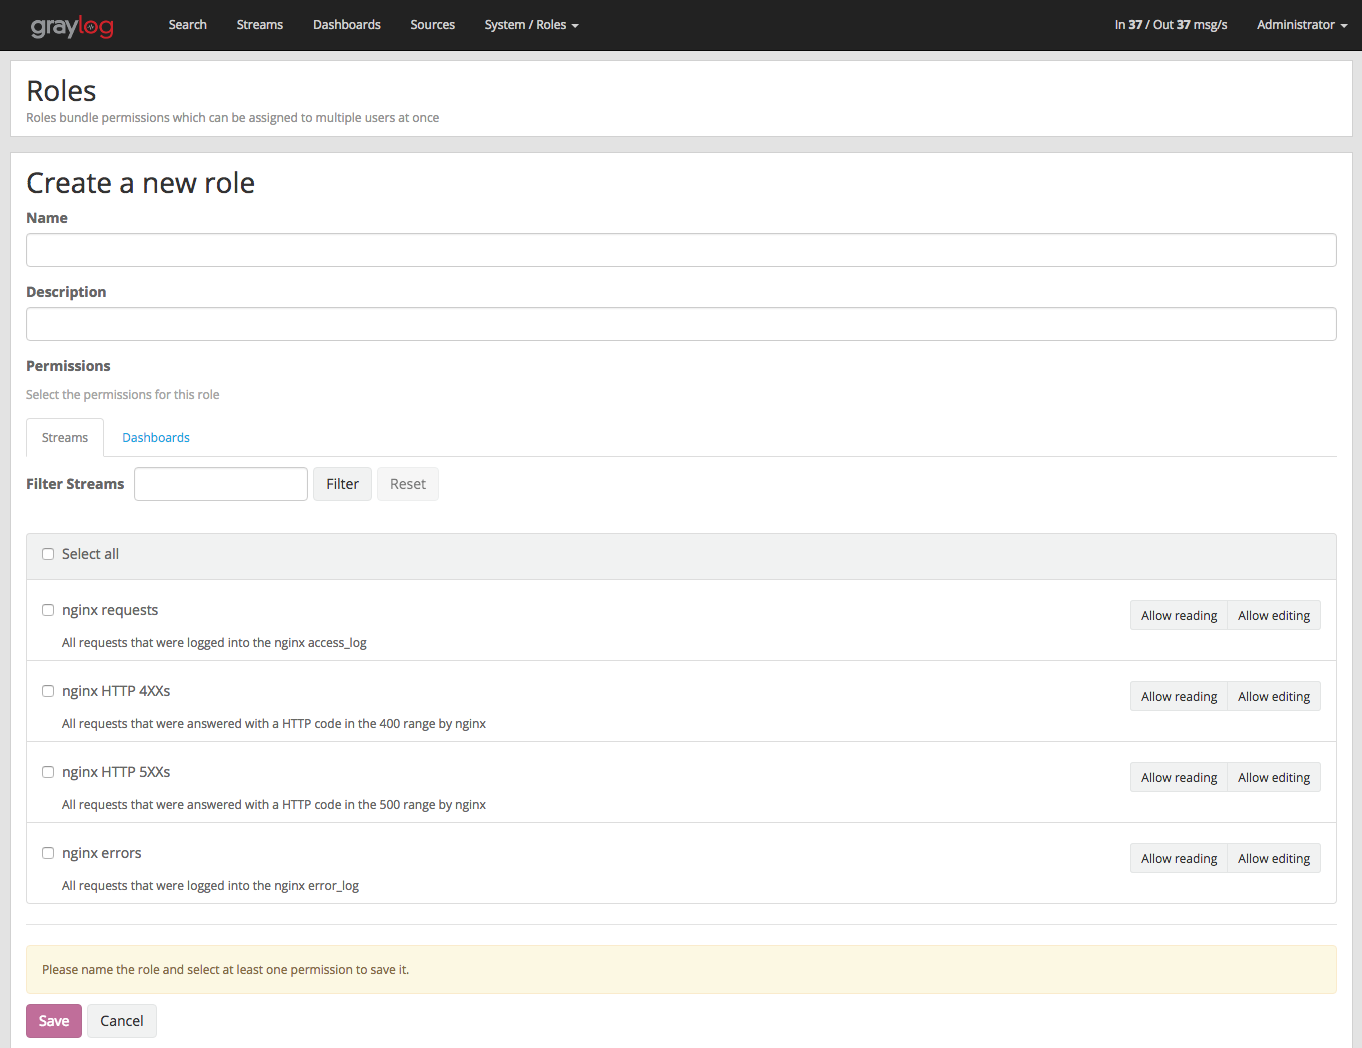
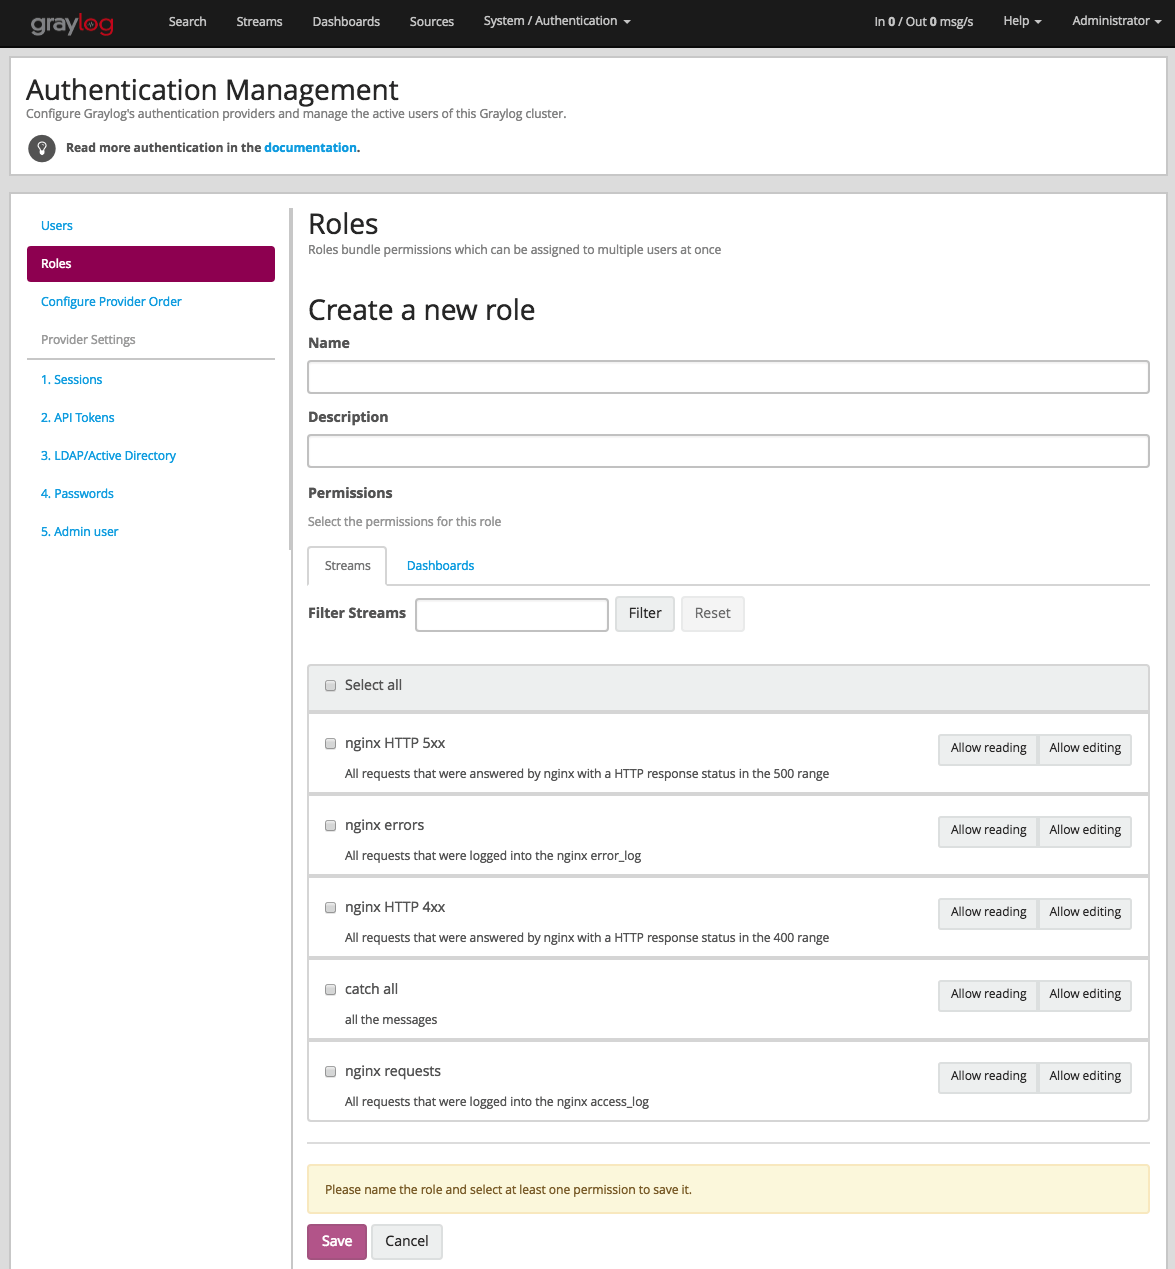
Update images and text for new authentication page

diff --git a/pages/users_and_roles/external_auth.rst b/pages/users_and_roles/external_auth.rst
@@ -4,16 +4,27 @@ External authentication
 
 LDAP / Active Directory
 =======================
-It is possible to use an external LDAP or Active Directory server to perform user authentication in Graylog. Since version 1.2,
-you can also use LDAP groups to perform authorization by mapping them to Graylog roles.
+
+It is possible to use an external LDAP or Active Directory server to perform user authentication in Graylog.
+
+Since Graylog 1.2.0, you can also use LDAP groups to perform authorization by mapping them to Graylog roles.
+
 
 Configuration
 -------------
-To set up your LDAP or Active Directory server, go to *System* -> *Users* -> *Configure LDAP*. Once LDAP is enabled, you need to
-provide some details about the server. Please test the server connection before continuing to the next steps.
+
+To set up your LDAP or Active Directory server, go to **System / Authentication / LDAP/Active Directory**.
+
+Once LDAP is enabled, you need to provide some details about the directory server.
+
+.. image:: /images/ldap_settings.png
+
+Please test the server connection before continuing to the next steps.
+
 
 User mapping
 ------------
+
 In order to be able to look for users in the LDAP server you configured, Graylog needs to know some more details about it:
 the base tree to limit user search queries, the pattern used to look for users, and the field containing the full name of the
 user. You can test the configuration any time by using the login test form that you can find at the bottom of that page.
@@ -25,8 +36,10 @@ provided), and it will display all LDAP attributes belonging to the user, as you
 
 That's it for the basic LDAP configuration. Don't forget to save your settings at this point!
 
+
 Group mapping
 -------------
+
 You can additionally control the default permissions for users logging in with LDAP or Active Directory by mapping LDAP groups
 into Graylog roles. That is extremely helpful if you already use LDAP groups to authorize users in your organization, as you can
 control the default permissions members of LDAP groups will have.
@@ -34,7 +47,7 @@ control the default permissions members of LDAP groups will have.
 Once you configure group mapping, Graylog will rely on your LDAP groups to assign roles into users. That means that each time an
 LDAP user logs into Graylog, their roles will be assigned based on the LDAP groups their belong to.
 
-In first place, you need to fill in the details in the *Group Mapping* section under *System* -> *Users* -> *Configure LDAP*, by
+In first place, you need to fill in the details in the *Group Mapping* section under **System / Authentication / LDAP/Active Directory**, by
 giving the base where to limit group searches, a pattern used to look for groups, and the group name attribute.
 
 Then you need to select which default user role will be assigned to any users authenticated with the LDAP server should have. It
@@ -49,15 +62,14 @@ Save the LDAP settings once you are satisfied with the results.
 
 .. image:: /images/ldap_group_mapping.png
 
-Finally, in order to map LDAP groups into roles, you need to go to *System* -> *Users* -> *LDAP group mapping*. That page will
-load all available LDAP groups using the configuration you previously provided, and will allow you to select a Graylog role
-that defines the permissions that group will have inside Graylog.
+Finally, in order to map LDAP groups into roles, you need to go to **System / Authentication / LDAP/Active Directory -> LDAP group mapping**.
+This page will load all available LDAP groups using the configuration you previously provided, and will allow you to select a Graylog role
+which defines the permissions that group will have inside Graylog.
 
-**Note:** Loading LDAP groups may take some time in certain configurations, specially if you have many groups. In those cases,
-creating a better filter for groups may help with the loading times.
+.. note:: Loading LDAP groups may take some time in certain configurations, specially if you have many groups. In those cases, creating a better filter for groups may help with the loading times.
 
-**Note:** Remember that Graylog only synchronizes with LDAP when users log in, so you may need to modify existing users manually
-after changing the LDAP group mapping.
+.. note:: Remember that Graylog only synchronizes with LDAP when users log in, so you may need to modify existing users manually after changing the LDAP group mapping.
+
 
 Troubleshooting
 ---------------
@@ -72,5 +84,4 @@ Referral issues can be detected by warnings in the server logs about group mappi
   unable to perform group mapping. Graylog does not support LDAP referrals at the moment. 
   Please see http://docs.graylog.org/en/2.1/pages/users_and_roles/external_auth.html#troubleshooting
 
-These issues may be resolved by either managing the groups manually, or configuring the LDAP connection to work against the `global catalog <https://technet.microsoft.com/en-us/library/cc728188(v=ws.10).aspx>`_. The first solution means simply that the LDAP group settings must not be set, and the groups are managed locally. The global catalog solution requires using the 3268/TCP, or 3269/TCP (TLS) port of eligible Active Directory server. The downside is that using the global catalog service consumes slightly more server resources. 
-
+These issues may be resolved by either managing the groups manually, or configuring the LDAP connection to work against the `global catalog <https://technet.microsoft.com/en-us/library/cc728188(v=ws.10).aspx>`_. The first solution means simply that the LDAP group settings must not be set, and the groups are managed locally. The global catalog solution requires using the 3268/TCP, or 3269/TCP (TLS) port of eligible Active Directory server. The downside is that using the global catalog service consumes slightly more server resources.

diff --git a/pages/users_and_roles/system_users.rst b/pages/users_and_roles/system_users.rst
@@ -8,6 +8,7 @@ expose permissions on a REST call level yet. This guide describes how to create 
 
 Let's imagine we want to create a role that is only allowed to start or stop message processing on ``graylog-server`` nodes.
 
+
 REST call permissions
 =====================
 
@@ -17,20 +18,19 @@ all calls and roles based on the standard stream or dashboard permissions can ex
 
 If you want to create a user that can only execute calls to start or stop message processing you have to find the name
 of the required permission first. Until we include this functionality in the Graylog UI you'll have to look directly
-into the code. The permissions are listed in the ``RestPermissions`` class which you can find on
-`GitHub <https://github.com/Graylog2/graylog2-server/blob/2.1/graylog2-server/src/main/java/org/graylog2/shared/security/RestPermissions.java>`__.
-(Make sure to select a branch that reflects your current ``graylog-server`` version.)
+into the code. The permissions are listed in the `RestPermissions class <https://github.com/Graylog2/graylog2-server/blob/2.1.0/graylog2-server/src/main/java/org/graylog2/shared/security/RestPermissions.java>`__ (make sure to select a branch that reflects your current version of Graylog).
 
 The permission you are searching for in this case is::
 
   public static final String PROCESSING_CHANGESTATE = "processing:changestate";
+
 
 Creating the role
 =================
 
 You can create a new role using the REST API like this::
 
-  curl -v -XPOST -H 'Content-Type: application/json' 'http://ADMIN:PASSWORD@graylog.example.org:9000/api/roles' -d '{"read_only": false,"permissions": ["processing:changestate"],"name": "Change processing state","description": "Permission to start or stop processing on graylog-server nodes"}'
+  curl -v -XPOST -u ADMIN:PASSWORD -H 'Content-Type: application/json' 'http://graylog.example.org:9000/api/roles' -d '{"read_only": false,"permissions": ["processing:changestate"],"name": "Change processing state","description": "Permission to start or stop processing on Graylog nodes"}'
 
 Notice the ``processing:changestate`` permission that we assigned. Every user with this role will be able to
 execute only calls that start or stop processing on ``graylog-server`` nodes. (and also the standard ``reader`` permissions
@@ -47,19 +47,20 @@ This is the POST body in an easier to read formatting::
     "read_only": false
   }
 
+
 Assigning the role to a user
 ============================
 
-Create a new user in the Graylog Web Interface and assign the new role to it:
+Create a new user in the Graylog web interface and assign the new role to it:
 
 .. image:: /images/sysuser.png
 
-Every user needs to at least have the standard ``reader`` permissions but those do not provide any access to data
+Every user needs to at least have the standard "Reader" permissions but those do not provide any access to data
 or maintenance functionalities.
 
 Now request the user information to see what permissions have been assigned::
 
-  $ curl -XGET 'http://ADMIN:PASSWORT@graylog.example.org:9000/api/users/maintenanceuser?pretty=true'
+  $ curl -XGET -u ADMIN:PASSWORD 'http://graylog.example.org:9000/api/users/maintenanceuser?pretty=true'
   {
     "id" : "563d1024d4c63709999c4ac2",
     "username" : "maintenanceuser",

diff --git a/pages/users_and_roles/roles.rst b/pages/users_and_roles/roles.rst
@@ -8,7 +8,7 @@ In Graylog, roles are named collections of individual permissions which can be a
 could only assign individual permissions to each user in the system, making updating stream or dashboard permissions for
 a large group of users difficult to deal with.
 
-Starting in Graylog 1.2 you can create roles which bundle permissions to streams and dashboards. These roles can then
+Starting with Graylog 1.2 you can create roles which bundle permissions to streams and dashboards. These roles can then
 be assigned to any number of users and later be updated to include new streams and dashboards.
 
 .. image:: /images/roles.png
@@ -18,11 +18,13 @@ and should only be assigned to users operating Graylog. The ``Reader`` role gran
 to be able to use Graylog. The interface will ensure that every user at least has the ``Reader`` role in addition to
 more business specific roles you create.
 
-Roles cannot be deleted as long as users are still assigned to them, to prevent accidentally locking users out.
+Roles cannot be deleted as long as users are still assigned to them to prevent accidentally locking users out.
 
-Create a role
-=============
-In order to create a new role, choose the green *Add new role* button on the *System* -> *Roles* page.
+
+Creating a role
+===============
+
+In order to create a new role, choose the green **Add new role** button on the **System / Authentication / Roles** page.
 
 This will display a dialog allowing you to describe the new role and select the permissions it grants.
 
@@ -40,18 +42,22 @@ to toggle the permissions for all of the selected items at once.
 
 Once you are done, be sure to save your changes. The save button is disabled until you select at least one permission.
 
+
 Editing a role
 ==============
+
 Administrators can edit roles to add or remove access to new streams and dashboards in the system. The two built in ``Admin``
 and ``Reader`` roles cannot be edited or deleted because they are vital for Graylog's permission system.
 
-Simply choose the *edit* button on the *System* -> *Roles* page and change the settings of the role in the following page:
+Simply choose the **Edit** button on the **System / Authentication / Roles** page and change the settings of the role in the following page:
 
 .. image:: /images/edit_role.png
 
 You can safely rename the role as well as updating its description, the existing role assignment for users will be kept.
 
+
 Deleting a role
 ===============
+
 Deleting roles checks whether a role still has users assigned to it, to avoid accidentally locking users out.
 If you want to remove a role, please remove it from all users first.

diff --git a/pages/users_and_roles/users.rst b/pages/users_and_roles/users.rst
@@ -9,8 +9,10 @@ In addition to these fields, you can also configure the session timeout, roles a
 
 .. image:: /images/create_user.png
 
+
 Sessions
 ========
+
 Each login for a user creates a session, which is bound to the browser the user is currently using. Whenever the user
 interacts with Graylog this session is extended.
 
@@ -21,17 +23,21 @@ their session will expire as if the browser was closed.
 
 Logging out explicitly terminates the session.
 
+
 Timezone
 ========
+
 Since Graylog internally processes and stores messages in the UTC timezone, it is important to set the correct timezone for each
 user.
 
 Even though the system defaults are often enough to display correct times, in case your team is spread across different
 timezones, each user can be assigned and change their respective timezone setting. You can find the current timezone settings
-for the various components on the *System* -> *Overview* page of your Graylog web interface.
+for the various components on the **System / Overview** page of your Graylog web interface.
+
 
 Initial Roles
 =============
+
 Each user needs to be assigned at least one role, which governs the basic set of permissions this user has in Graylog.
 
 Normal users, which do not need to create inputs, outputs or perform administrative tasks like managing access control etc,
